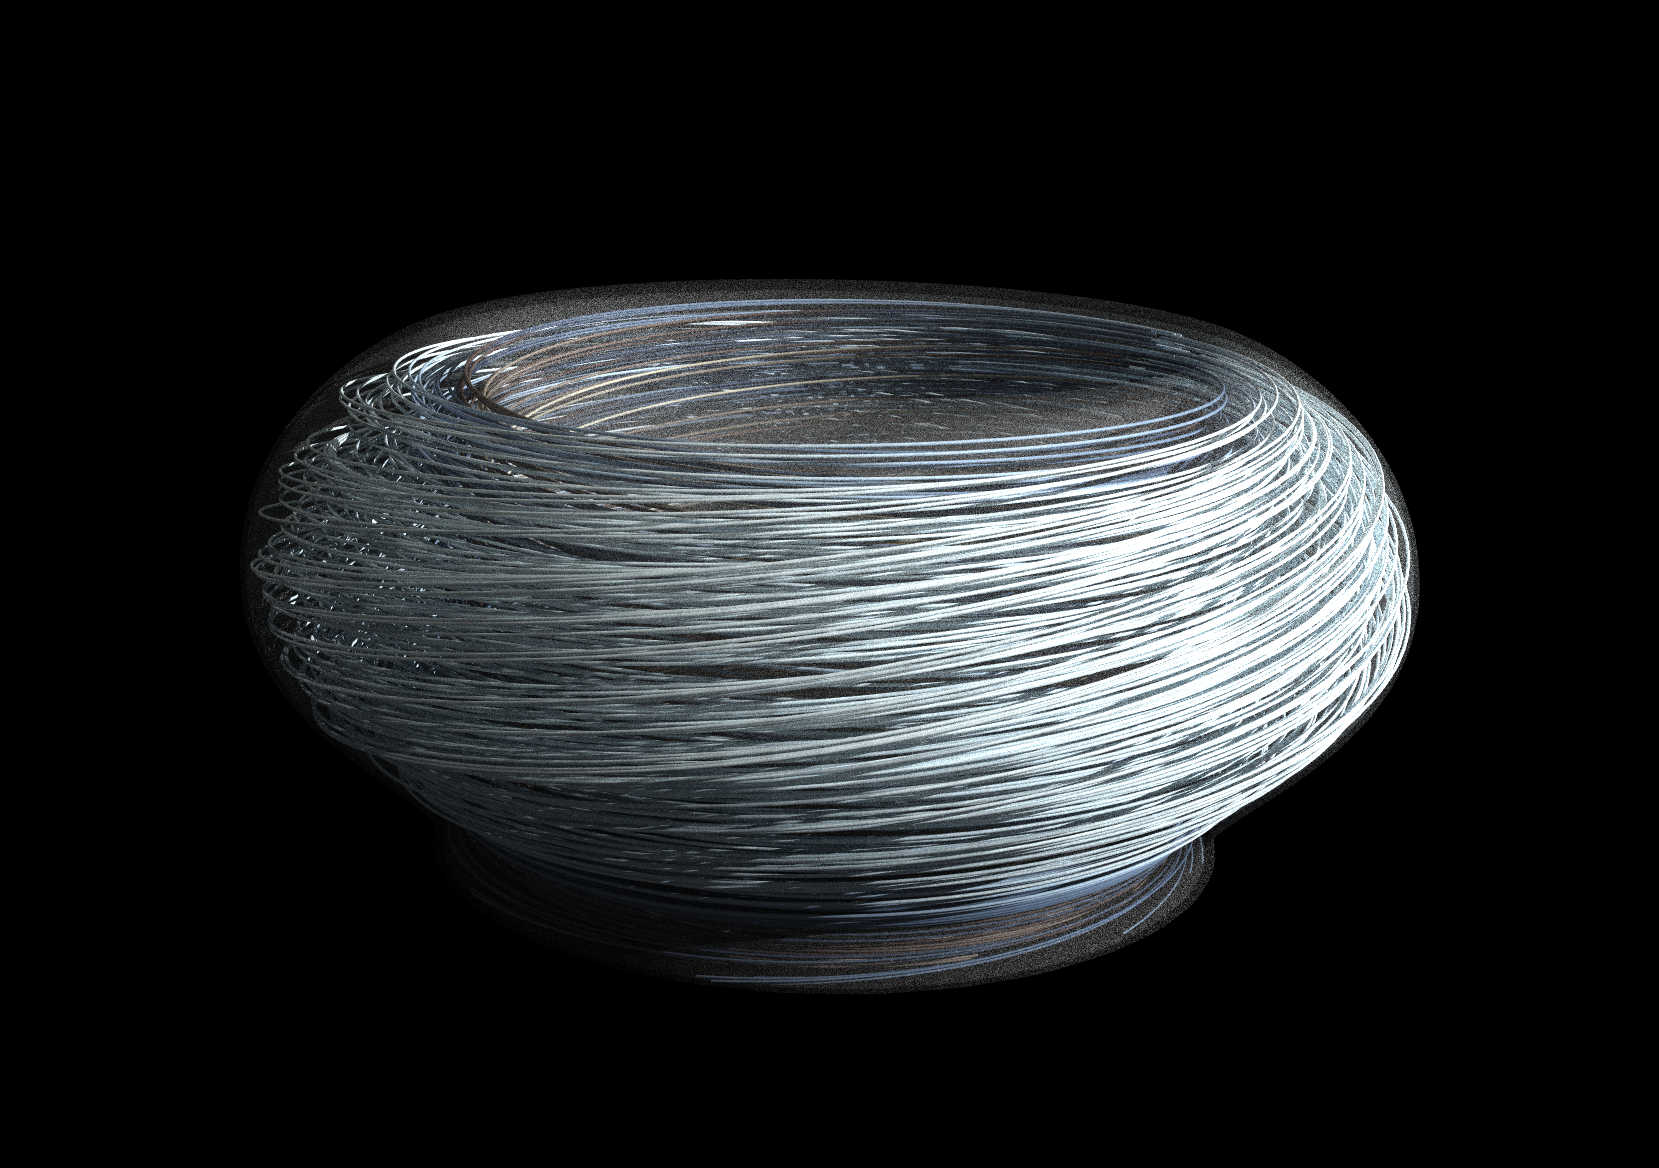
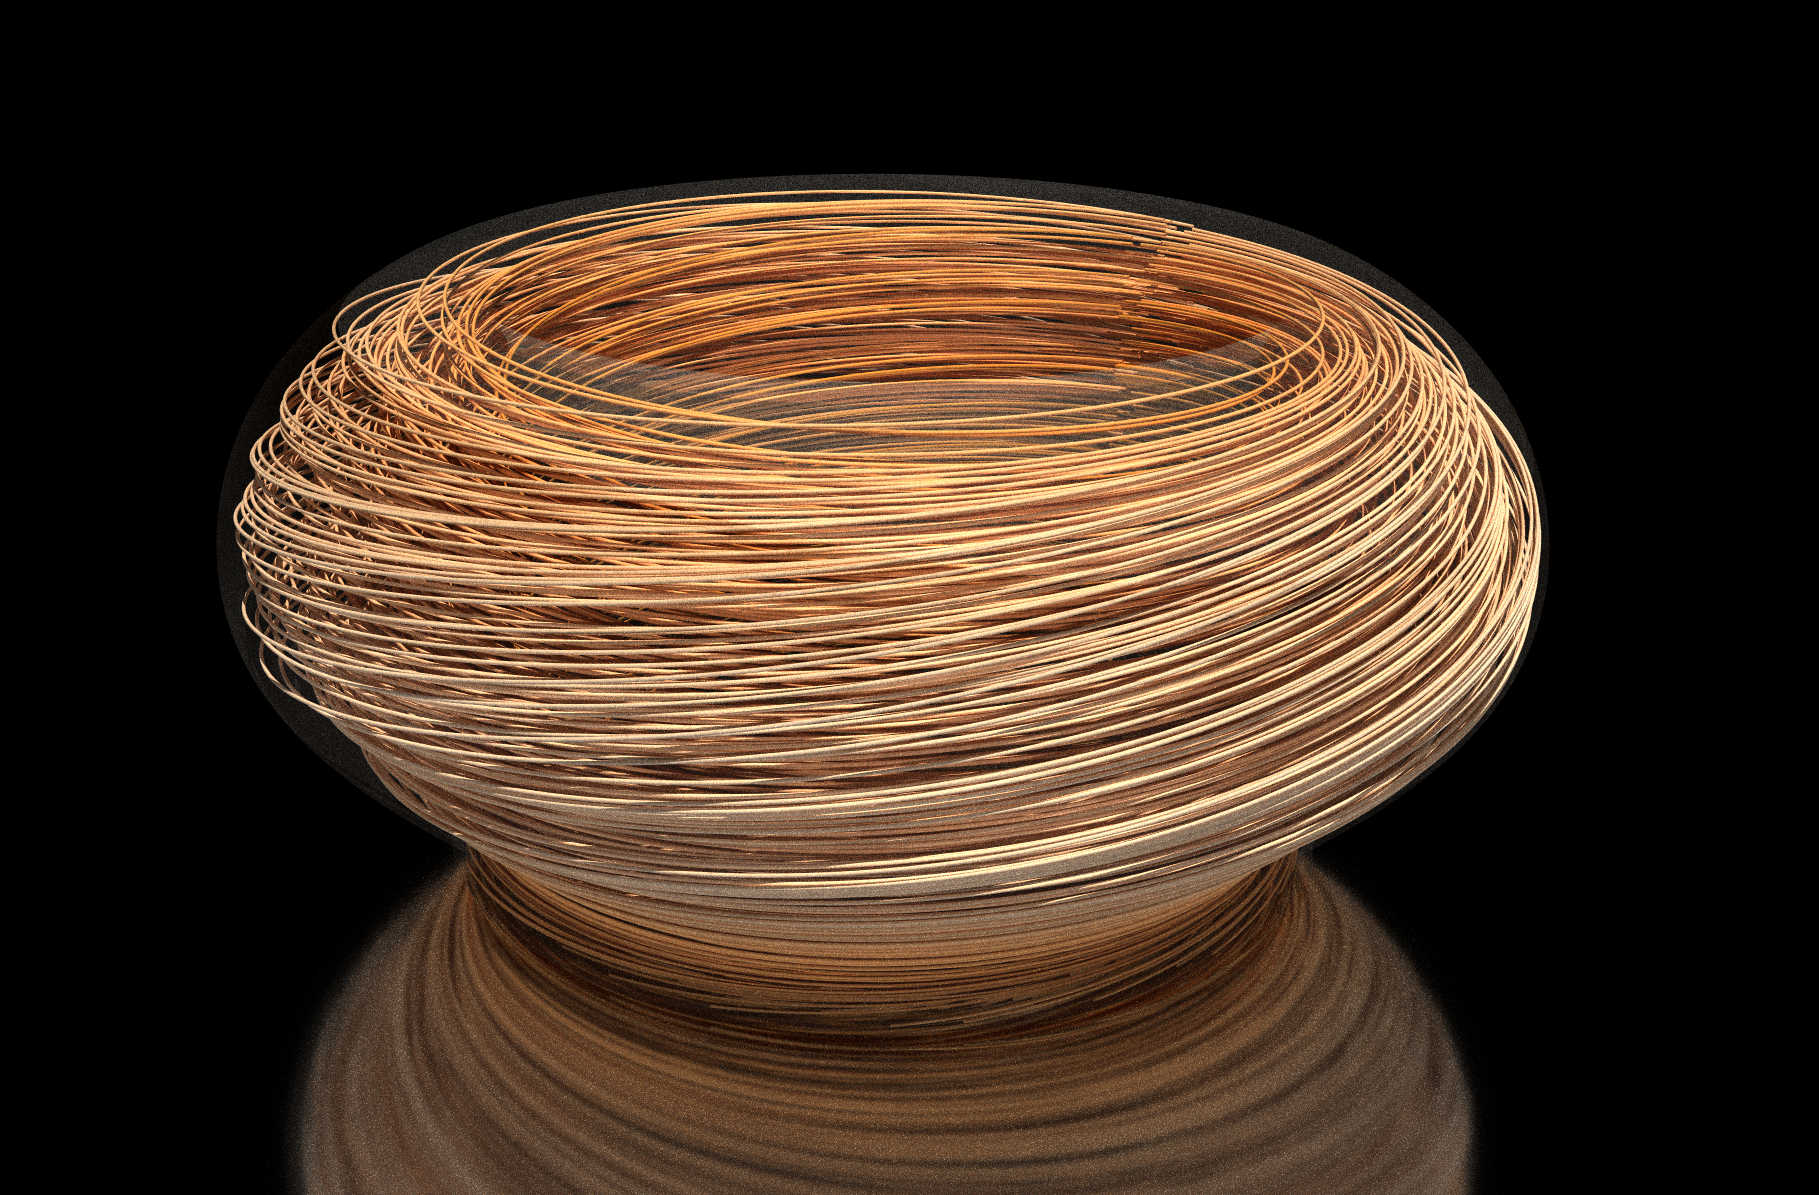
Update Gallery with newer and more pictures

diff --git a/_pages/showroom.md b/_pages/showroom.md
@@ -7,34 +7,46 @@ author_profile: false
 comments: false
 
 gallery3d:
-  - url: /images/nvidia_ue.jpg
-    image_path: /images/nvidia_ue.jpg
+  - url: /images/nvidia_ue_red_green.jpg
+    image_path: /images/nvidia_ue_red_green.jpg
     title: "Parallel electron velocity. Nvidia Index volume rendering"
-  - url: /images/nvidia_ions.jpg
-    image_path: /images/nvidia_ions.jpg
-    title: "Ion density. Nvidia Index volume rendering"
-  - url: /images/raytracing_current.jpg
-    image_path: /images/raytracing_current.jpg
-    title: "Parallel current. Positive iso-volume with density coloring and simulation box."
+  - url: /images/nvidia_ue_red_blue.jpg
+    image_path: /images/nvidia_ue_red_blue.jpg
+    title: "Parallel electron velocity. Nvidia Index volume rendering"
   - url: /images/raytracing_mag.jpg
     image_path: /images/raytracing_mag.jpg
     title: "Magnetic field. Streamline integrated with two flux-surfaces."
-  - url: /images/logo_small.jpg
-    image_path: /images/logo_small.jpg
+  - url: /images/tokamak.jpg
+    image_path: /images/tokamak.jpg
+    title: "Flux surfaces of a tokamak."
+  - url: /images/nvidia_ions_red_black.jpg
+    image_path: /images/nvidia_ions_red_black.jpg
+    title: "Ion density. Nvidia Index volume rendering"
+  - url: /images/nvidia_ions_red.jpg
+    image_path: /images/nvidia_ions_red.jpg
+    title: "Ion density. Nvidia Index volume rendering"
+  - url: /images/raytracing_current_green.jpg
+    image_path: /images/raytracing_current_green.jpg
+    title: "Parallel current. Positive iso-volume with density coloring and simulation box."
+  - url: /images/nvidia_potential_gold.jpg
+    image_path: /images/nvidia_potential_gold.jpg
     title: "Electric potential viewed from the top"
   - url: /images/surface_ui.jpg
     image_path: /images/surface_ui.jpg
     title: "Parallel ion velocity"
 gallery2d:
-  - url: /images/lperpinv.jpg
-    image_path: /images/lperpinv.jpg
+  - url: /images/lperpinv_green.jpg
+    image_path: /images/lperpinv_green.jpg
     title: "Perpendicular inverse gradient length scale"
-  - url: /images/lparallelinv.jpg
-    image_path: /images/lparallelinv.jpg
+  - url: /images/lparallelinv_blue.jpg
+    image_path: /images/lparallelinv_blue.jpg
+    title: "Parallel inverse gradient length scale"
+  - url: /images/lparallelinv_red.jpg
+    image_path: /images/lparallelinv_red.jpg
     title: "Parallel inverse gradient length scale"
 ---
-## Visualisations
-Click on a picture to see larger version.
+## Gallery
+Impressions of a 3d simulation. Click to enlarge
 {% include gallery id="gallery3d" layout="third" class="half" caption="" %}
 {% include gallery id="gallery2d" layout="third" class="half" caption="" %}
 
